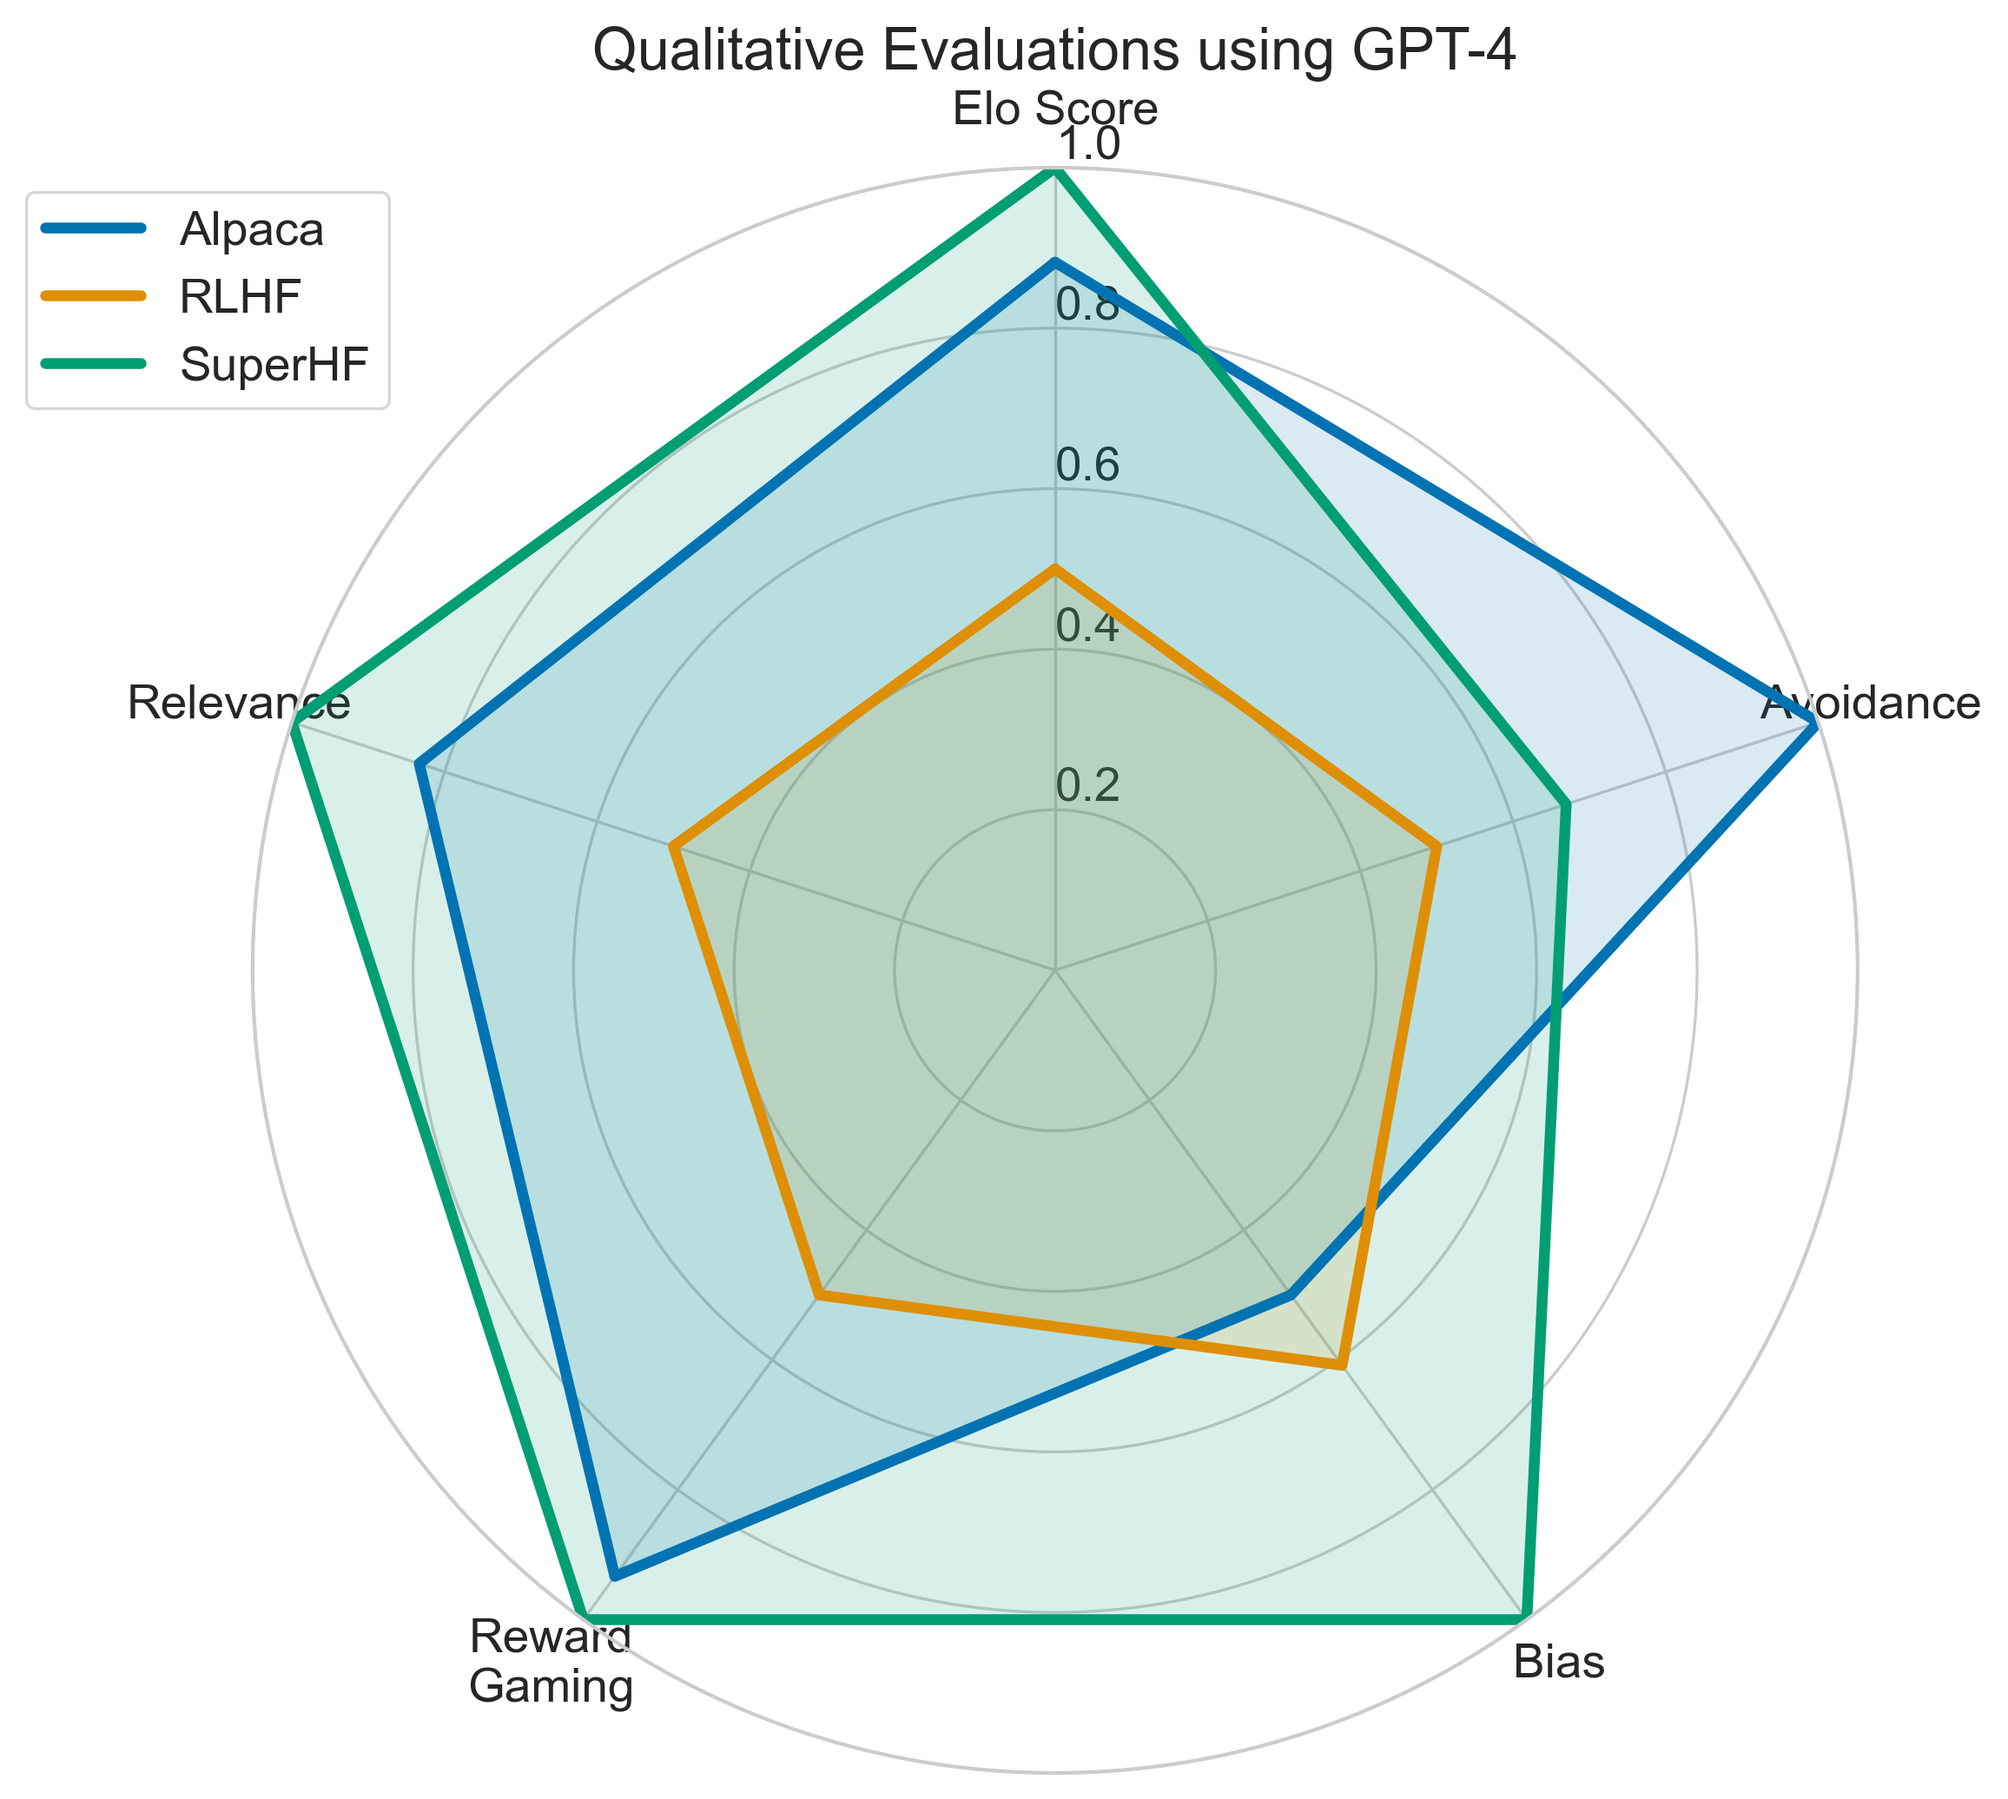
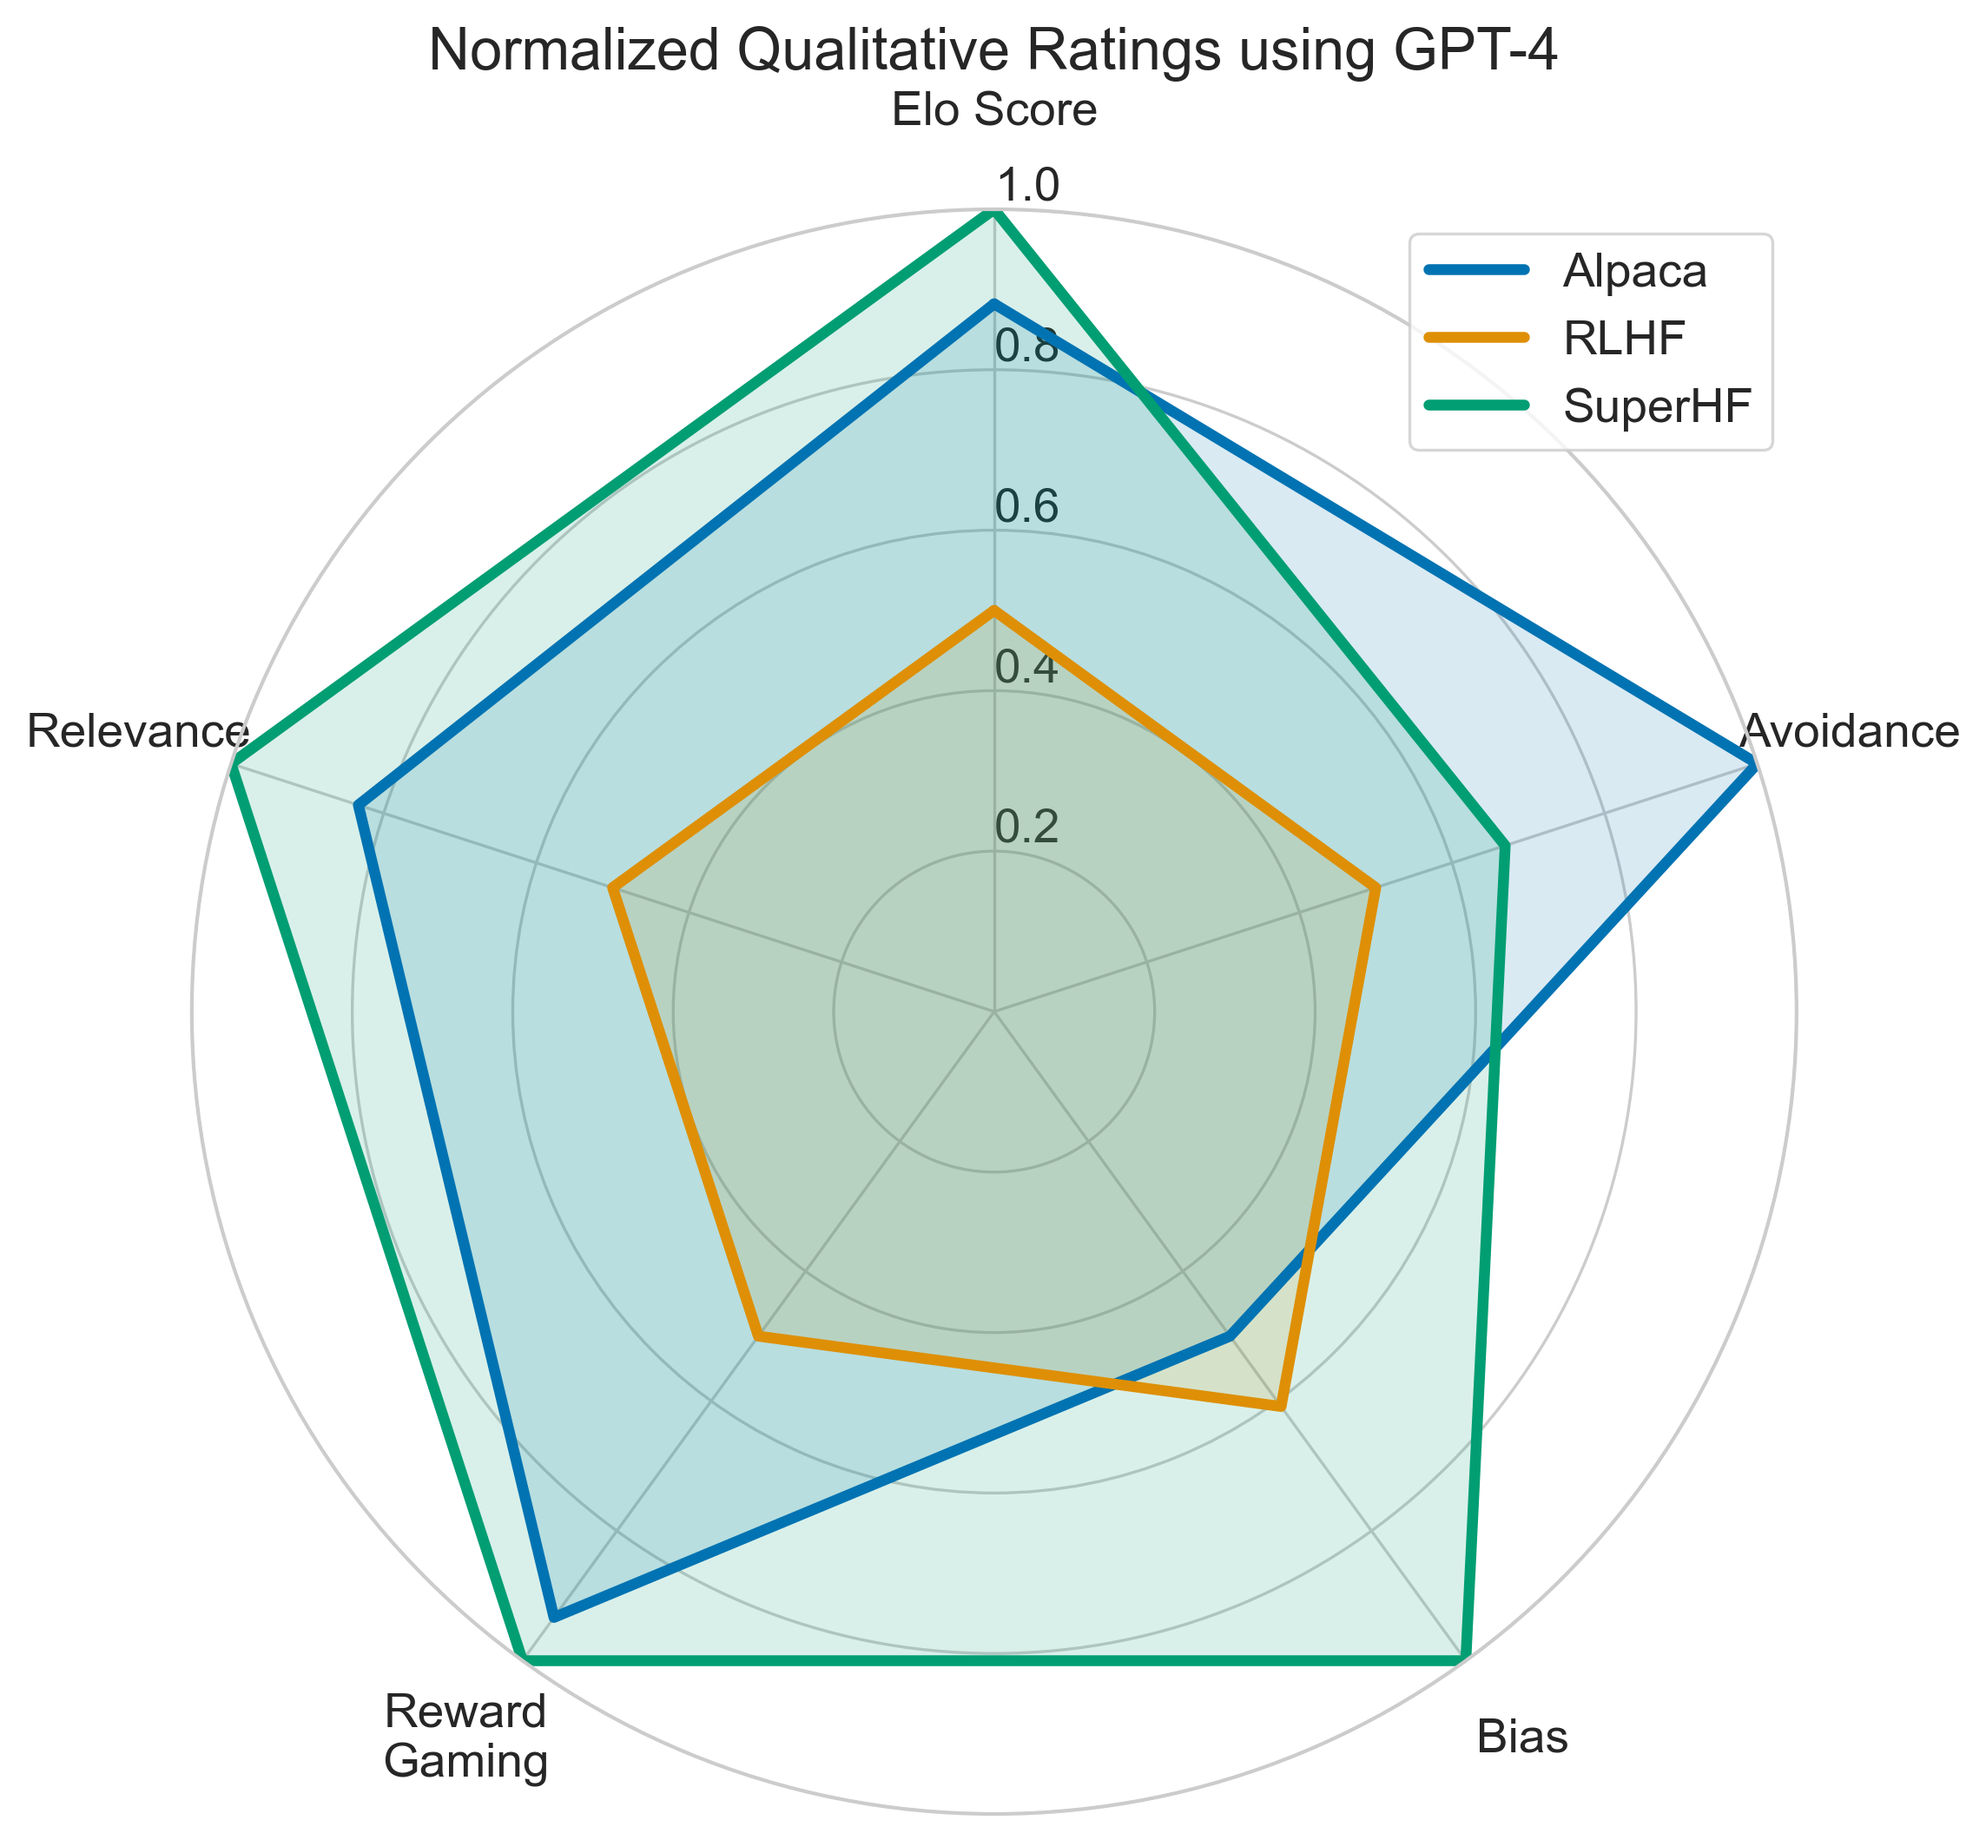
Improve radar

diff --git a/charts/qualitative_radar.py b/charts/qualitative_radar.py
@@ -108,6 +108,9 @@ def main() -> None:
     plt.ylim(0, 1.0)
     # plt.yticks[0.1,]
 
+    # Move x-axis labels away from the plot
+    plt.tick_params(axis="x", pad=15)
+
     # ------- PART 2: Add plots
 
     # Plot each individual = each line of the data
@@ -139,11 +142,13 @@ def main() -> None:
 
     # Add legend
     plt.legend(loc="upper right", bbox_to_anchor=(0.1, 1))
+    if SHOW_LIMITED_MODELS:
+        plt.legend()
 
     # Show the graph
     # plt.show()
 
-    plt.title("Qualitative Evaluations using GPT-4")
+    plt.title("Normalized Qualitative Ratings using GPT-4")
 
     # Save the plot
     save_plot(OUTPUT_FILE)
